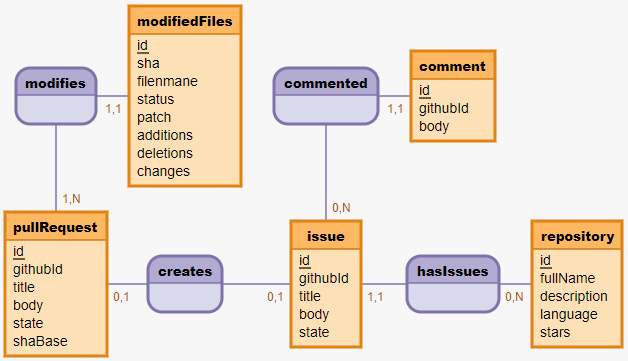
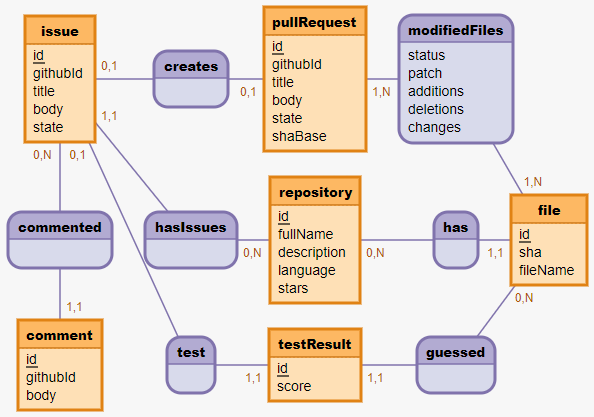
feat!: update data models, see architecture.md in interfaces folder BREAKING CHANGE

diff --git a/interfaces/GithubFactory.py b/interfaces/GithubFactory.py
@@ -7,13 +7,16 @@ from models.issue import Issue
 from models.pullRequest import PullRequest
 from models.modifiedFiles import ModifiedFiles
 from models.comment import Comment
+from models.gitFile import GitFile
 from progress.bar import IncrementalBar
+from progress.spinner import PixelSpinner
 
 class GithubFactory(AbcFactoryGit):
     
-    def __init__(self, g):
+    def __init__(self, g, db):
         self.g = g
         self.file_id = 0
+        self.db = db
     
     def get_issue(self, number: int):
         """Gets an issue from the Github API.
@@ -49,14 +52,13 @@ class GithubFactory(AbcFactoryGit):
         files = pull.get_files()
         for file in files:
             yield ModifiedFiles(
-                sha = file.sha,
-                filename = file.filename,
+                gitFileId = self.db.database_get_file_id_by_filename(file.filename, self.repository.id),
+                pullRequestId = pullId,
                 status = file.status,
                 patch = file.patch,
                 additions = file.additions,
                 deletions = file.deletions,
-                changes = file.changes,
-                pullRequestId = pullId
+                changes = file.changes
             )
     
     def get_pull_requests(self):
@@ -147,6 +149,28 @@ class GithubFactory(AbcFactoryGit):
                 body = comment.body,
                 issueId = issueId
             )
+    
+    def get_gitFile(self):
+        """Recursively fetches all files in the repository, yielding a GitFile object for each file.
+        
+        The method uses a PixelSpinner to provide visual feedback while fetching the files.
+        It first gets the contents of the repository root directory, then recursively fetches the contents of any subdirectories.
+        For each file, it yields a GitFile object containing the file's SHA, file name, and repository ID."""
+        
+        contents = self.repository.get_contents("")
+        contentSpinner = PixelSpinner("Fetching files ")
+        while contents:
+            contentSpinner.next()
+            file = contents.pop(0)
+            if file.type == "dir":
+                contents.extend(self.repository.get_contents(file.path))
+            else:
+                yield GitFile(
+                    sha = file.sha,
+                    fileName = file.path,
+                    repositoryId = self.repository.id
+                )
+        contentSpinner.finish()
     
     def find_repos(self, stars, lang, nb_repo):
         """Searches GitHub repositories based on stars, language, and number of repos.

diff --git a/interfaces/SQLite.py b/interfaces/SQLite.py
@@ -1,16 +1,19 @@
 from __future__ import annotations
+import logging
 from interfaces.DbInterface import DbInterface
 from models.repository import Repository
 from models.issue import Issue
 from models.pullRequest import PullRequest
 from models.modifiedFiles import ModifiedFiles
+from models.gitFile import GitFile
 from models.comment import Comment
-from sqlalchemy import update
+from sqlalchemy import update, select
 
 class SQLite(DbInterface):
     
     def __init__(self, session):
         self.session = session
+        self.missingFileId = 0
     
     def database_insert(self, data: Repository | Issue | PullRequest | ModifiedFiles | Comment):
         """Inserts the given data object into the database.
@@ -35,7 +38,8 @@ class SQLite(DbInterface):
     
         self.session.add_all(data)
         self.session.commit()
-        return [data.id for data in data]
+        if not all(isinstance(x, ModifiedFiles) for x in data):
+            return [data.id for data in data]
     
     def database_update_issueId_pullRequest(self, pullId: int, issueId: int):
         """Updates the issueId field of a PullRequest in the database.
@@ -46,3 +50,20 @@ class SQLite(DbInterface):
     
         self.session.query(PullRequest).filter(PullRequest.githubId == pullId).update({"issueId": issueId})
         self.session.commit()
+    
+    def database_get_file_id_by_filename(self, filename: str, repoId: int):
+        """Retrieves the database ID of a file by its filename and repository ID.
+        
+        Parameters:
+            filename (str): The filename to search for.
+            repoId (int): The ID of the repository the file belongs to.
+        
+        Returns:
+            int: The database ID of the file, or a dummy value if the file is not found."""
+        
+        stmt = select(GitFile.id).where(GitFile.fileName == filename).where(GitFile.repositoryId == repoId)
+        try: 
+            return self.session.execute(stmt).fetchone()[0]
+        except:
+            self.missingFileId -= 1
+            return self.missingFileId # Return a dummy value if file not found

diff --git a/main.py b/main.py
@@ -31,16 +31,17 @@ def configure_session(container: Container):
     container.session.override(
         providers.Singleton(Session)
     )
-    container.git_factory.override(
-        providers.Factory(
-            GithubFactory,
-            g = Github(auth=Auth.Token(os.getenv('GITHUB_TOKEN')))
-        )
-    )
     container.db_interface.override(
         providers.Singleton(
             SQLite,
             session = container.session
+        )
+    )
+    container.git_factory.override(
+        providers.Factory(
+            GithubFactory,
+            g = Github(auth=Auth.Token(os.getenv('GITHUB_TOKEN'))),
+            db = container.db_interface
         )
     )
 
@@ -90,8 +91,8 @@ def get_data_repo(repository_name):
         repository_name: The name of the GitHub repository to fetch data for."""
     
     j = -1
-    repo = githubFactory.get_repository(repository_name)
-    sqlite.database_insert(repo)
+    sqlite.database_insert(githubFactory.get_repository(repository_name))
+    sqlite.database_insert_many(list(githubFactory.get_gitFile()))
     
     pullList, pulls, issueNumbers = githubFactory.get_pull_requests()
     bar = IncrementalBar("Fetching data", max = len(issueNumbers))
@@ -115,7 +116,7 @@ if __name__ == "__main__":
     container = Container()
     configure_session(container)
     
-    githubFactory = container.git_factory()
     sqlite = container.db_interface()
+    githubFactory = container.git_factory()
     
     cli()

diff --git a/models/modifiedFiles.py b/models/modifiedFiles.py
@@ -4,12 +4,10 @@ from models.db import Base
 class ModifiedFiles(Base) :
     __tablename__ = "modifiedFiles"
     
-    id = Column(Integer, primary_key=True, autoincrement=True)
-    sha = Column(String)
-    filename = Column(String)
+    gitFileId = Column(Integer, ForeignKey("gitFile.id"), primary_key=True)
+    pullRequestId = Column(Integer, ForeignKey("pullRequest.id"), primary_key=True)
     status = Column(String)
     patch = Column(String)
     additions = Column(Integer)
     deletions = Column(Integer)
     changes = Column(Integer)
-    pullRequestId = Column(Integer, ForeignKey("pullRequest.id"))

diff --git a/models/gitFile.py b/models/gitFile.py
@@ -1,0 +1,10 @@
+from sqlalchemy import Column, Integer, String, ForeignKey
+from models.db import Base
+
+class GitFile(Base):
+    __tablename__ = "gitFile"
+
+    id = Column(Integer, primary_key=True, autoincrement=True)
+    sha = Column(String)
+    fileName = Column(String)
+    repositoryId = Column(Integer, ForeignKey("repository.id"))

diff --git a/interfaces/DbInterface.py b/interfaces/DbInterface.py
@@ -13,3 +13,7 @@ class DbInterface(ABC):
     @abstractmethod
     def database_update_issueId_pullRequest(self):
         raise NotImplementedError()
+    
+    @abstractmethod
+    def database_get_file_id_by_filename(self):
+        raise NotImplementedError()

diff --git a/interfaces/AbcFactoryGit.py b/interfaces/AbcFactoryGit.py
@@ -21,3 +21,7 @@ class AbcFactoryGit(ABC):
     @abstractmethod
     def get_modified_files(self):
         raise NotImplementedError()
+    
+    @abstractmethod
+    def get_gitFile(self):
+        raise NotImplementedError()

diff --git a/interfaces/Architecture.md b/interfaces/Architecture.md
@@ -1,7 +1,7 @@
 # Structure of the project
 
 ### Class Diagram of the structure of the project
-![Archi](/assets/Diagramme%20de%20Classe%20Dataset%20Github%20(5).png)
+![Archi](/assets/Diagramme%20de%20Classe%20Dataset%20Github.png)
 ### SQLite database's Conceptual Data Model
 ![MCD](/assets/MCD.png)
 ### SQLite database's Logical Data Model
